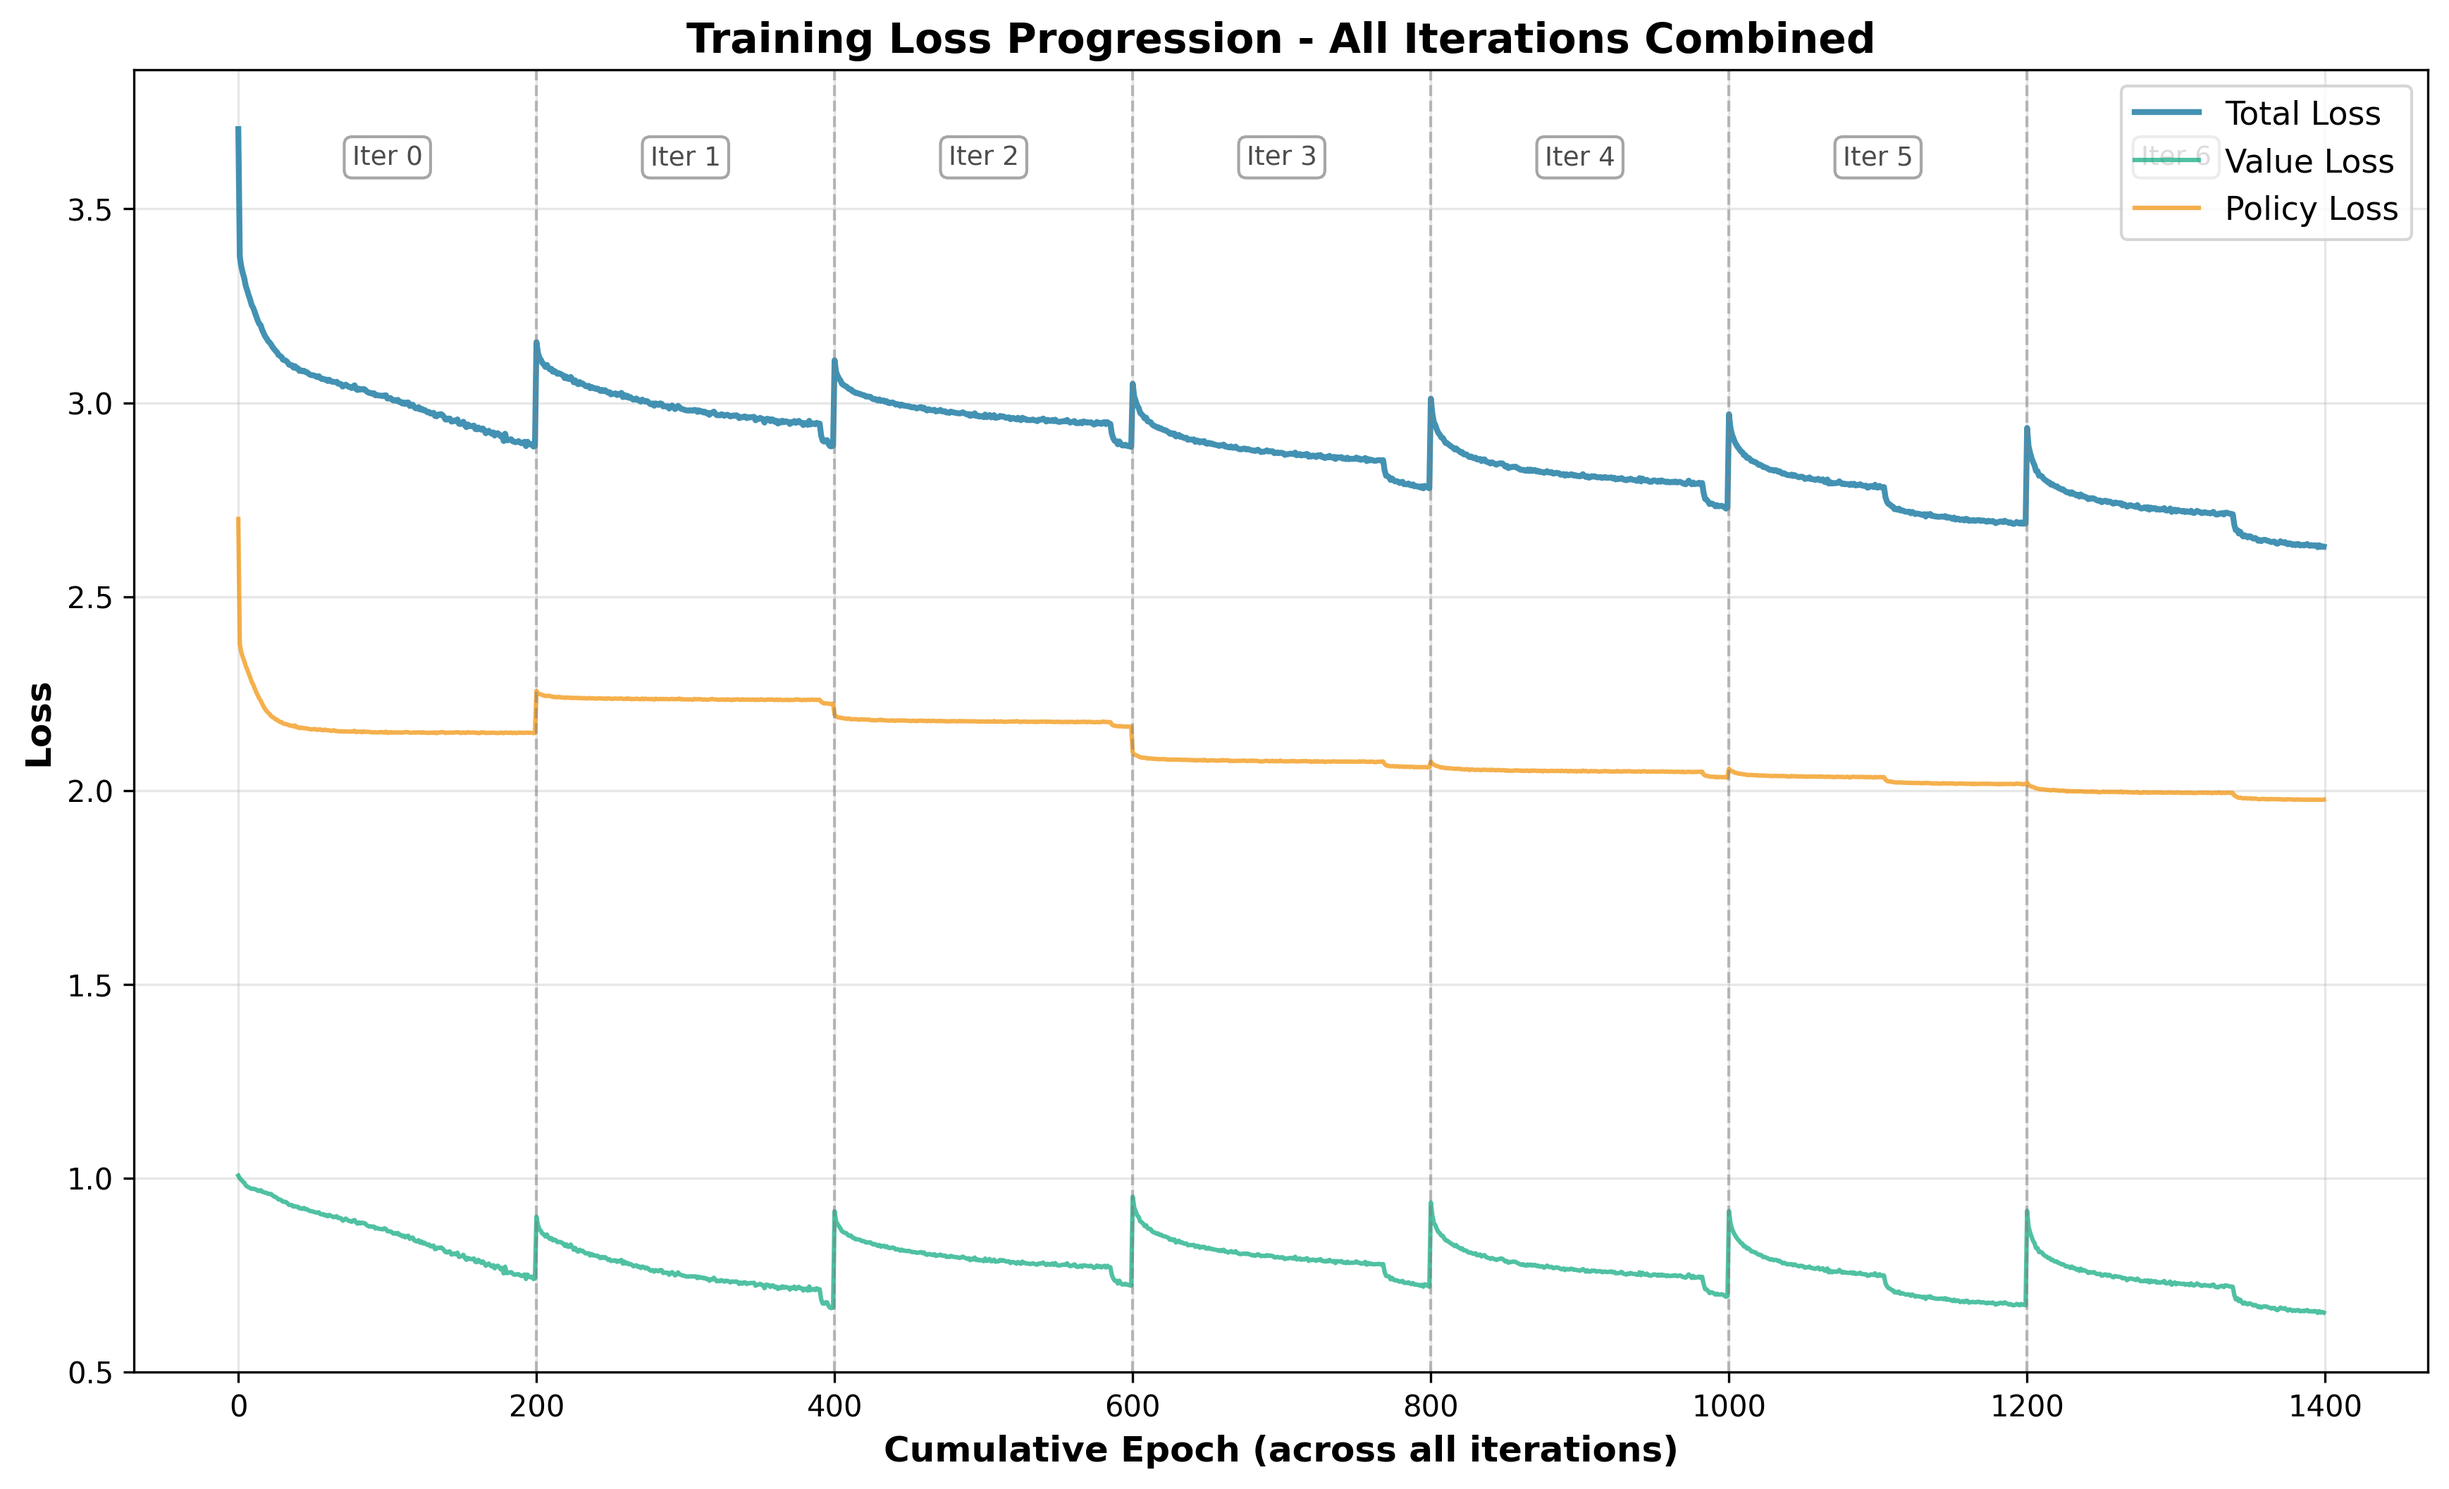
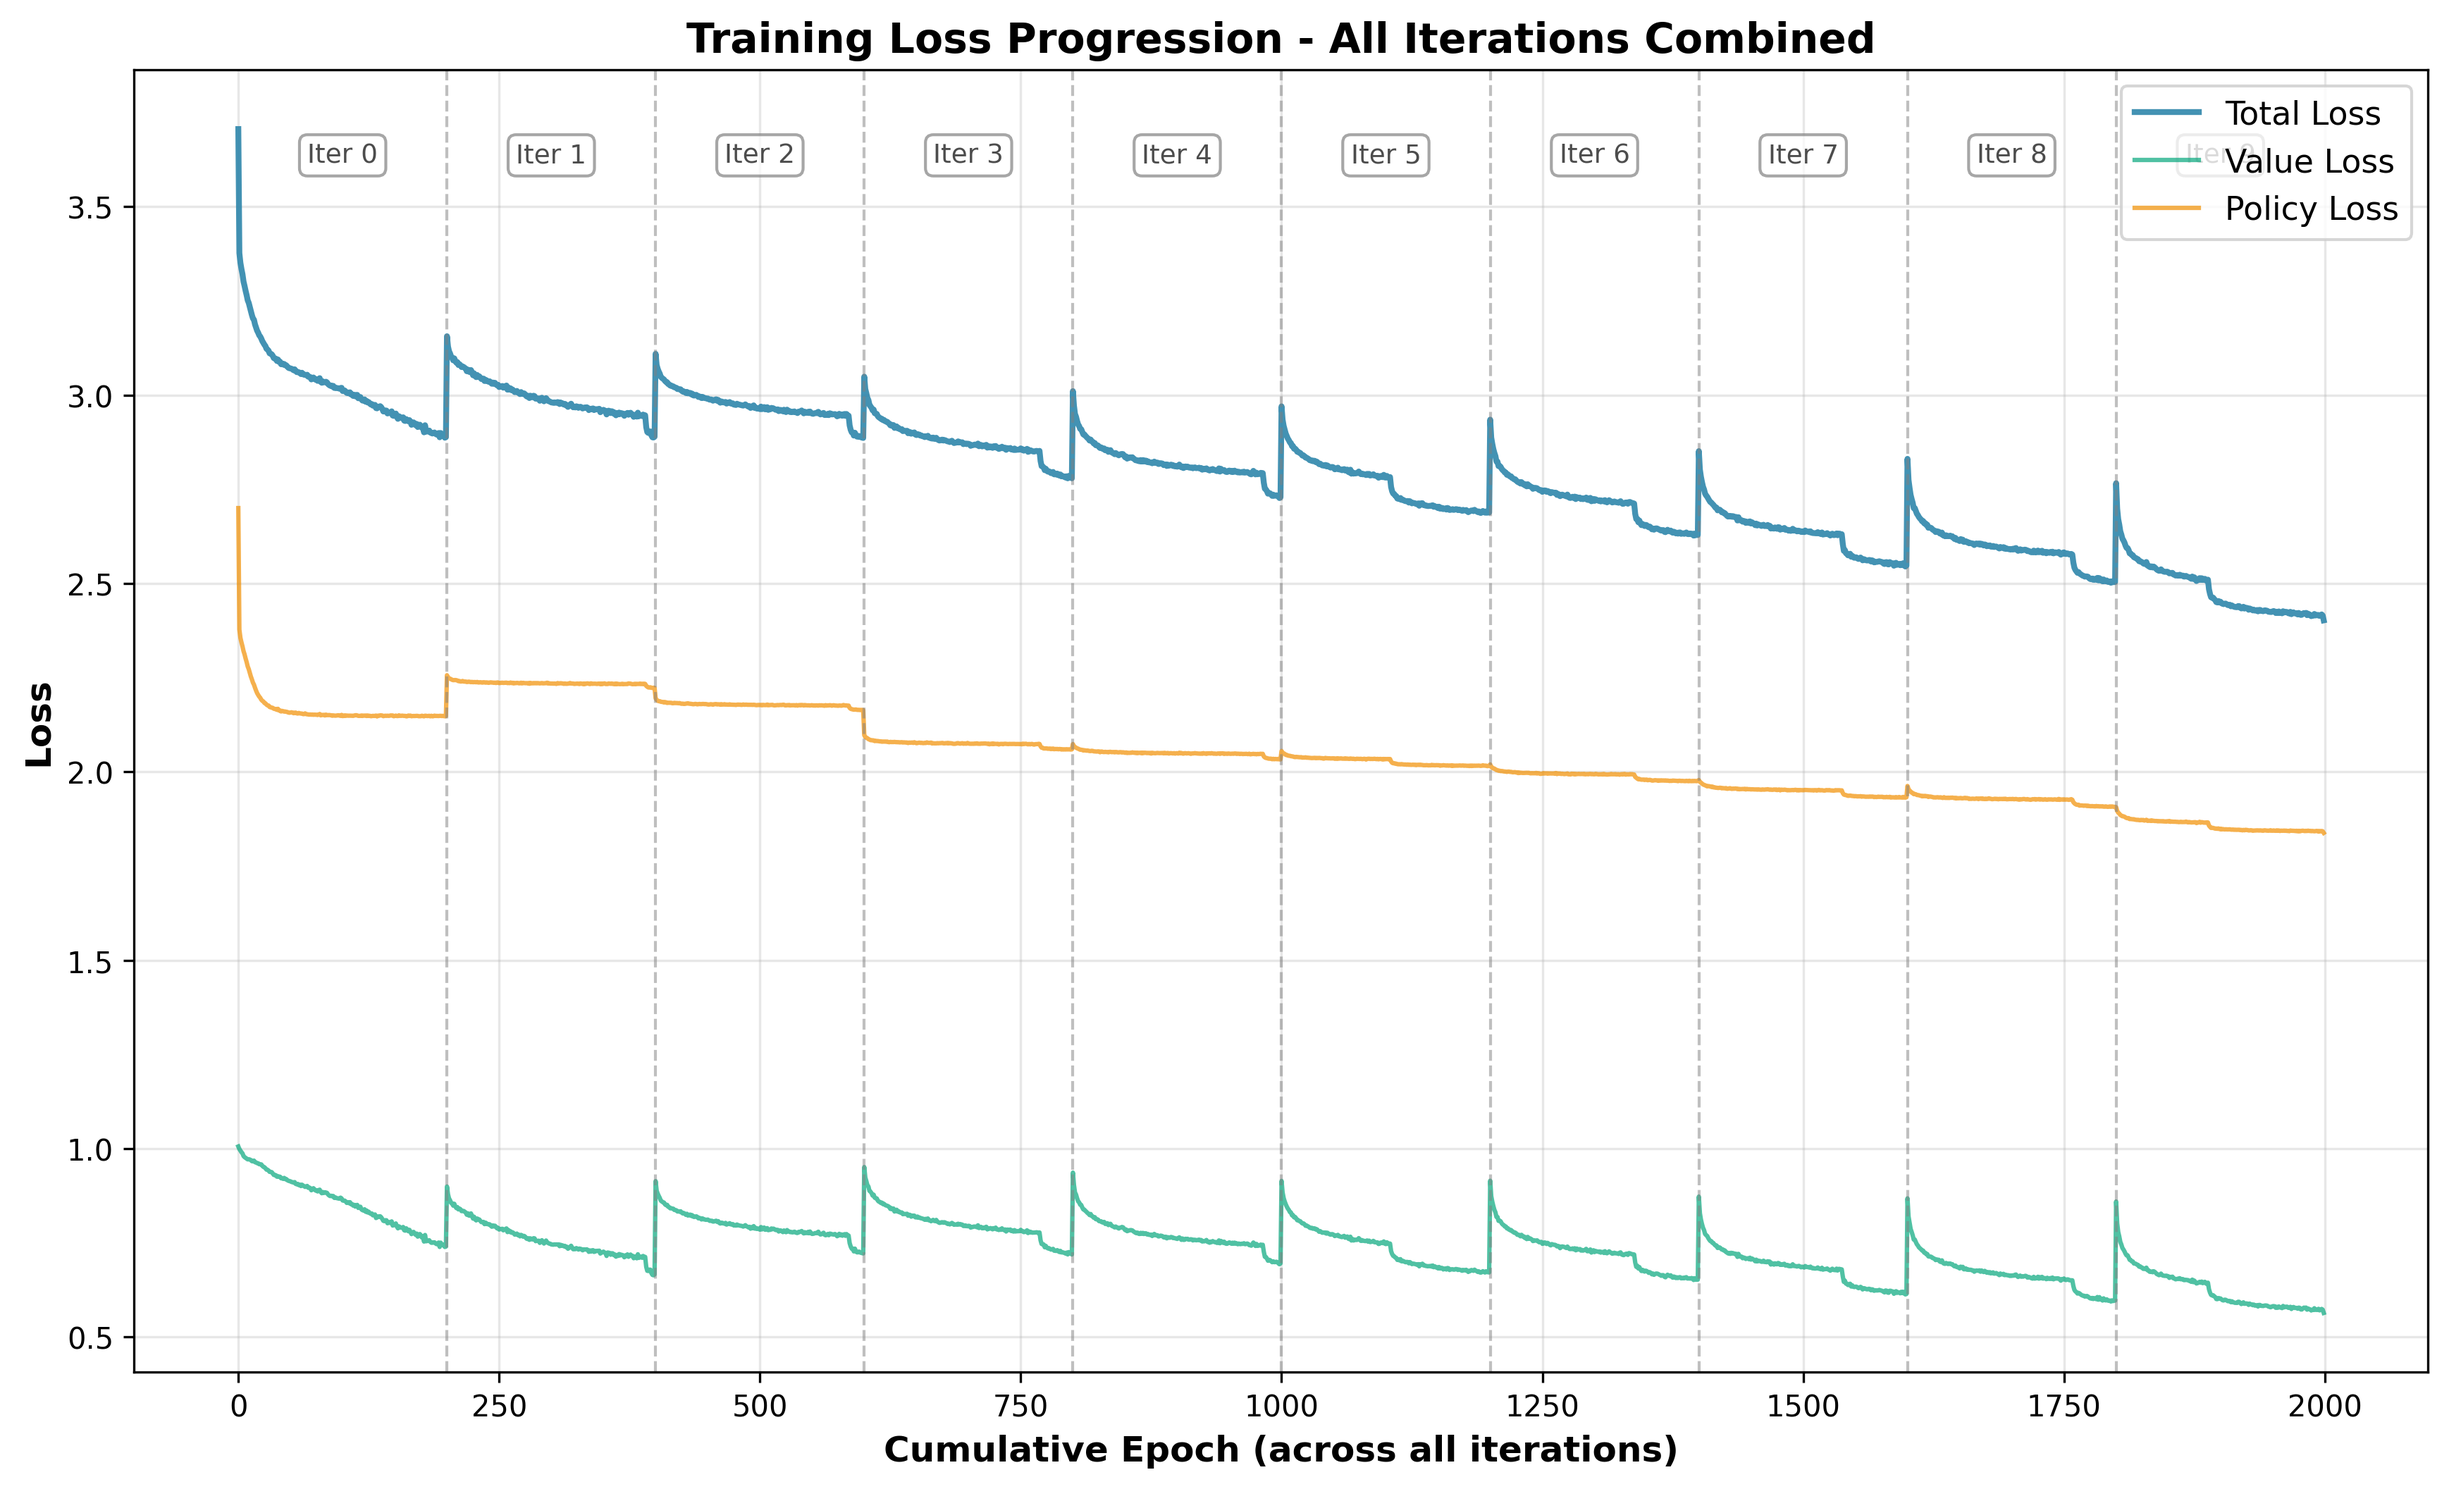
Add load_training_history function to visualize_training.py for loading training history data from CSV files

diff --git a/go/visualize_training.py b/go/visualize_training.py
@@ -17,7 +17,6 @@ except ImportError as e:
     print("  sudo apt-get install python3-matplotlib python3-pandas python3-numpy")
     sys.exit(1)
 
-from track_progress import load_training_history
 from config import Config as cfg
 
 # Fix path resolution - ensure LOGDIR is relative to script location
@@ -29,6 +28,45 @@ if not os.path.isabs(cfg.LOGDIR):
 # Output directory for visualizations
 output_dir = os.path.join(_script_dir, "test_output")
 os.makedirs(output_dir, exist_ok=True)
+
+def load_training_history():
+    """Load training history from logs directory."""
+    import glob
+
+    # Find all history CSV files
+    pattern = os.path.join(cfg.LOGDIR, "*_history.csv")
+    history_files = glob.glob(pattern)
+
+    if not history_files:
+        print(f"No history files found in {cfg.LOGDIR}")
+        return None
+
+    all_history = []
+    for filepath in history_files:
+        # Extract iteration number from filename (e.g., "0_history.csv" -> 0)
+        filename = os.path.basename(filepath)
+        try:
+            iteration = int(filename.split('_')[0])
+        except ValueError:
+            print(f"Skipping file with invalid name format: {filename}")
+            continue
+
+        # Load the CSV
+        try:
+            df = pd.read_csv(filepath)
+            df['iteration'] = iteration
+            all_history.append(df)
+        except Exception as e:
+            print(f"Error loading {filename}: {e}")
+            continue
+
+    if not all_history:
+        return None
+
+    # Concatenate all history dataframes
+    combined = pd.concat(all_history, ignore_index=True)
+    return combined
+
 
 def create_combined_loss_graph():
     """Create a single graph showing combined loss across all training iterations."""
